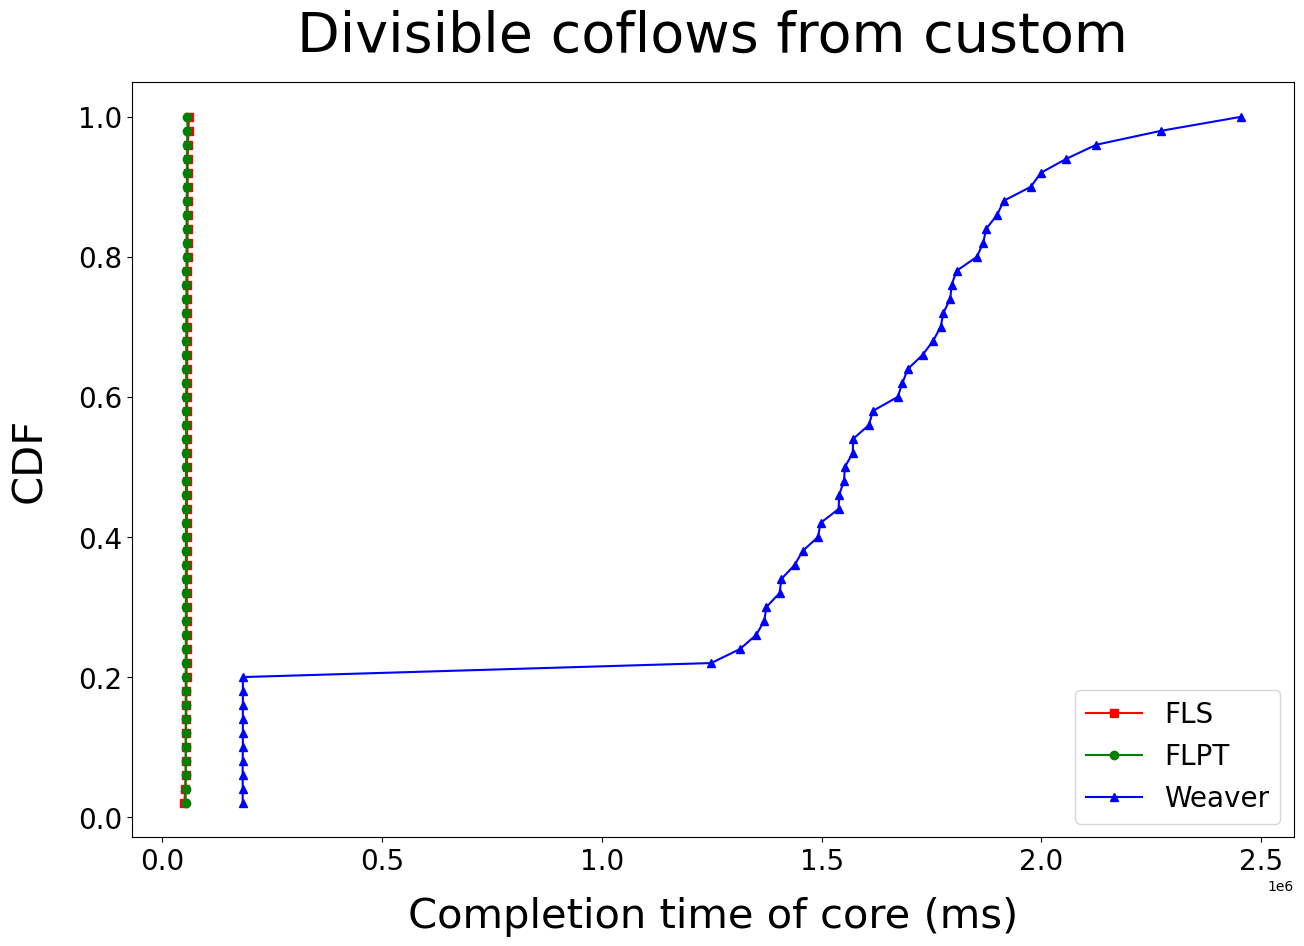
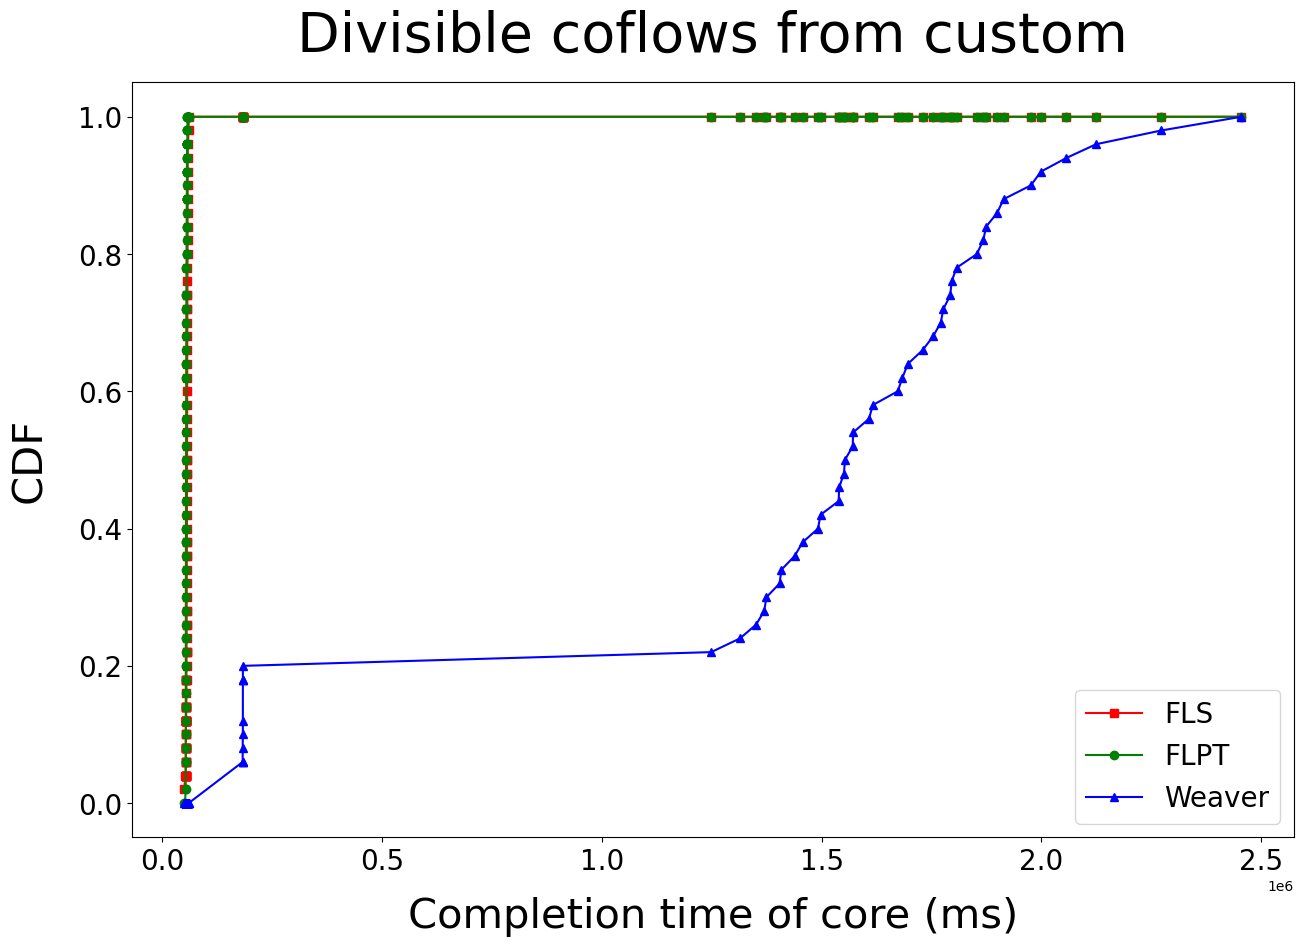
7/19 revised: CDF

diff --git a/Experiments/coflowSim/main_custom_divisible_CDF.py b/Experiments/coflowSim/main_custom_divisible_CDF.py
@@ -9,7 +9,10 @@ import matplotlib.pyplot as plt
 completionTimeOfCoreFLS = []
 completionTimeOfCoreFLPT = []
 completionTimeOfCoreWeaver = []
-CDF = []
+completionTimeOfCore = []
+cdfOfFLS = []
+cdfOfFLPT = []
+cdfOfWeaver = []
 
 numRacks = 50
 numJobs = 120
@@ -221,22 +224,61 @@ print('Weaver: %f' % makespan_Weaver)
 print(makespan_Weaver / mod.objVal)
 print("========================================================")
 
-for h in range(M):
-    CDF.append((h+1)/M)
+completionTimeOfCore.extend(completionTimeOfCoreFLS)
+completionTimeOfCore.extend(completionTimeOfCoreFLPT)
+completionTimeOfCore.extend(completionTimeOfCoreWeaver)
 
+completionTimeOfCore.sort()
+
+for i in range(len(completionTimeOfCore)):
+    j = 0
+    while(j < len(completionTimeOfCoreFLS)):
+        if completionTimeOfCoreFLS[j] > completionTimeOfCore[i]:
+            cdfOfFLS.append(j/M)
+            break
+        
+        if j == len(completionTimeOfCoreFLS) - 1:
+            cdfOfFLS.append((j+1)/M)
+        
+        j += 1
+        
+for i in range(len(completionTimeOfCore)):
+    j = 0
+    while(j < len(completionTimeOfCoreFLPT)):
+        if completionTimeOfCoreFLPT[j] > completionTimeOfCore[i]:
+            cdfOfFLPT.append(j/M)
+            break
+        
+        if j == len(completionTimeOfCoreFLPT) - 1:
+            cdfOfFLPT.append((j+1)/M)
+        
+        j += 1
+
+for i in range(len(completionTimeOfCore)):
+    j = 0
+    while(j < len(completionTimeOfCoreWeaver)):
+        if completionTimeOfCoreWeaver[j] > completionTimeOfCore[i]:
+            cdfOfWeaver.append(j/M)
+            break
+        
+        if j == len(completionTimeOfCoreWeaver) - 1:
+            cdfOfWeaver.append((j+1)/M)
+        
+        j += 1
+        
 
 # 設定圖片大小為長15、寬10
 
 plt.figure(figsize=(15,10),dpi=100,linewidth = 2)
 
 
-plt.plot(completionTimeOfCoreFLS,CDF,'s-',color = 'r', label="FLS")
+plt.plot(completionTimeOfCore,cdfOfFLS,'s-',color = 'r', label="FLS")
 
 
-plt.plot(completionTimeOfCoreFLPT,CDF,'o-',color = 'g', label="FLPT")
+plt.plot(completionTimeOfCore,cdfOfFLPT,'o-',color = 'g', label="FLPT")
 
 
-plt.plot(completionTimeOfCoreWeaver,CDF,'^-',color = 'b', label="Weaver")
+plt.plot(completionTimeOfCore,cdfOfWeaver,'^-',color = 'b', label="Weaver")
 
 
 # 設定圖片標題，以及指定字型設定，x代表與圖案最左側的距離，y代表與圖片的距離
